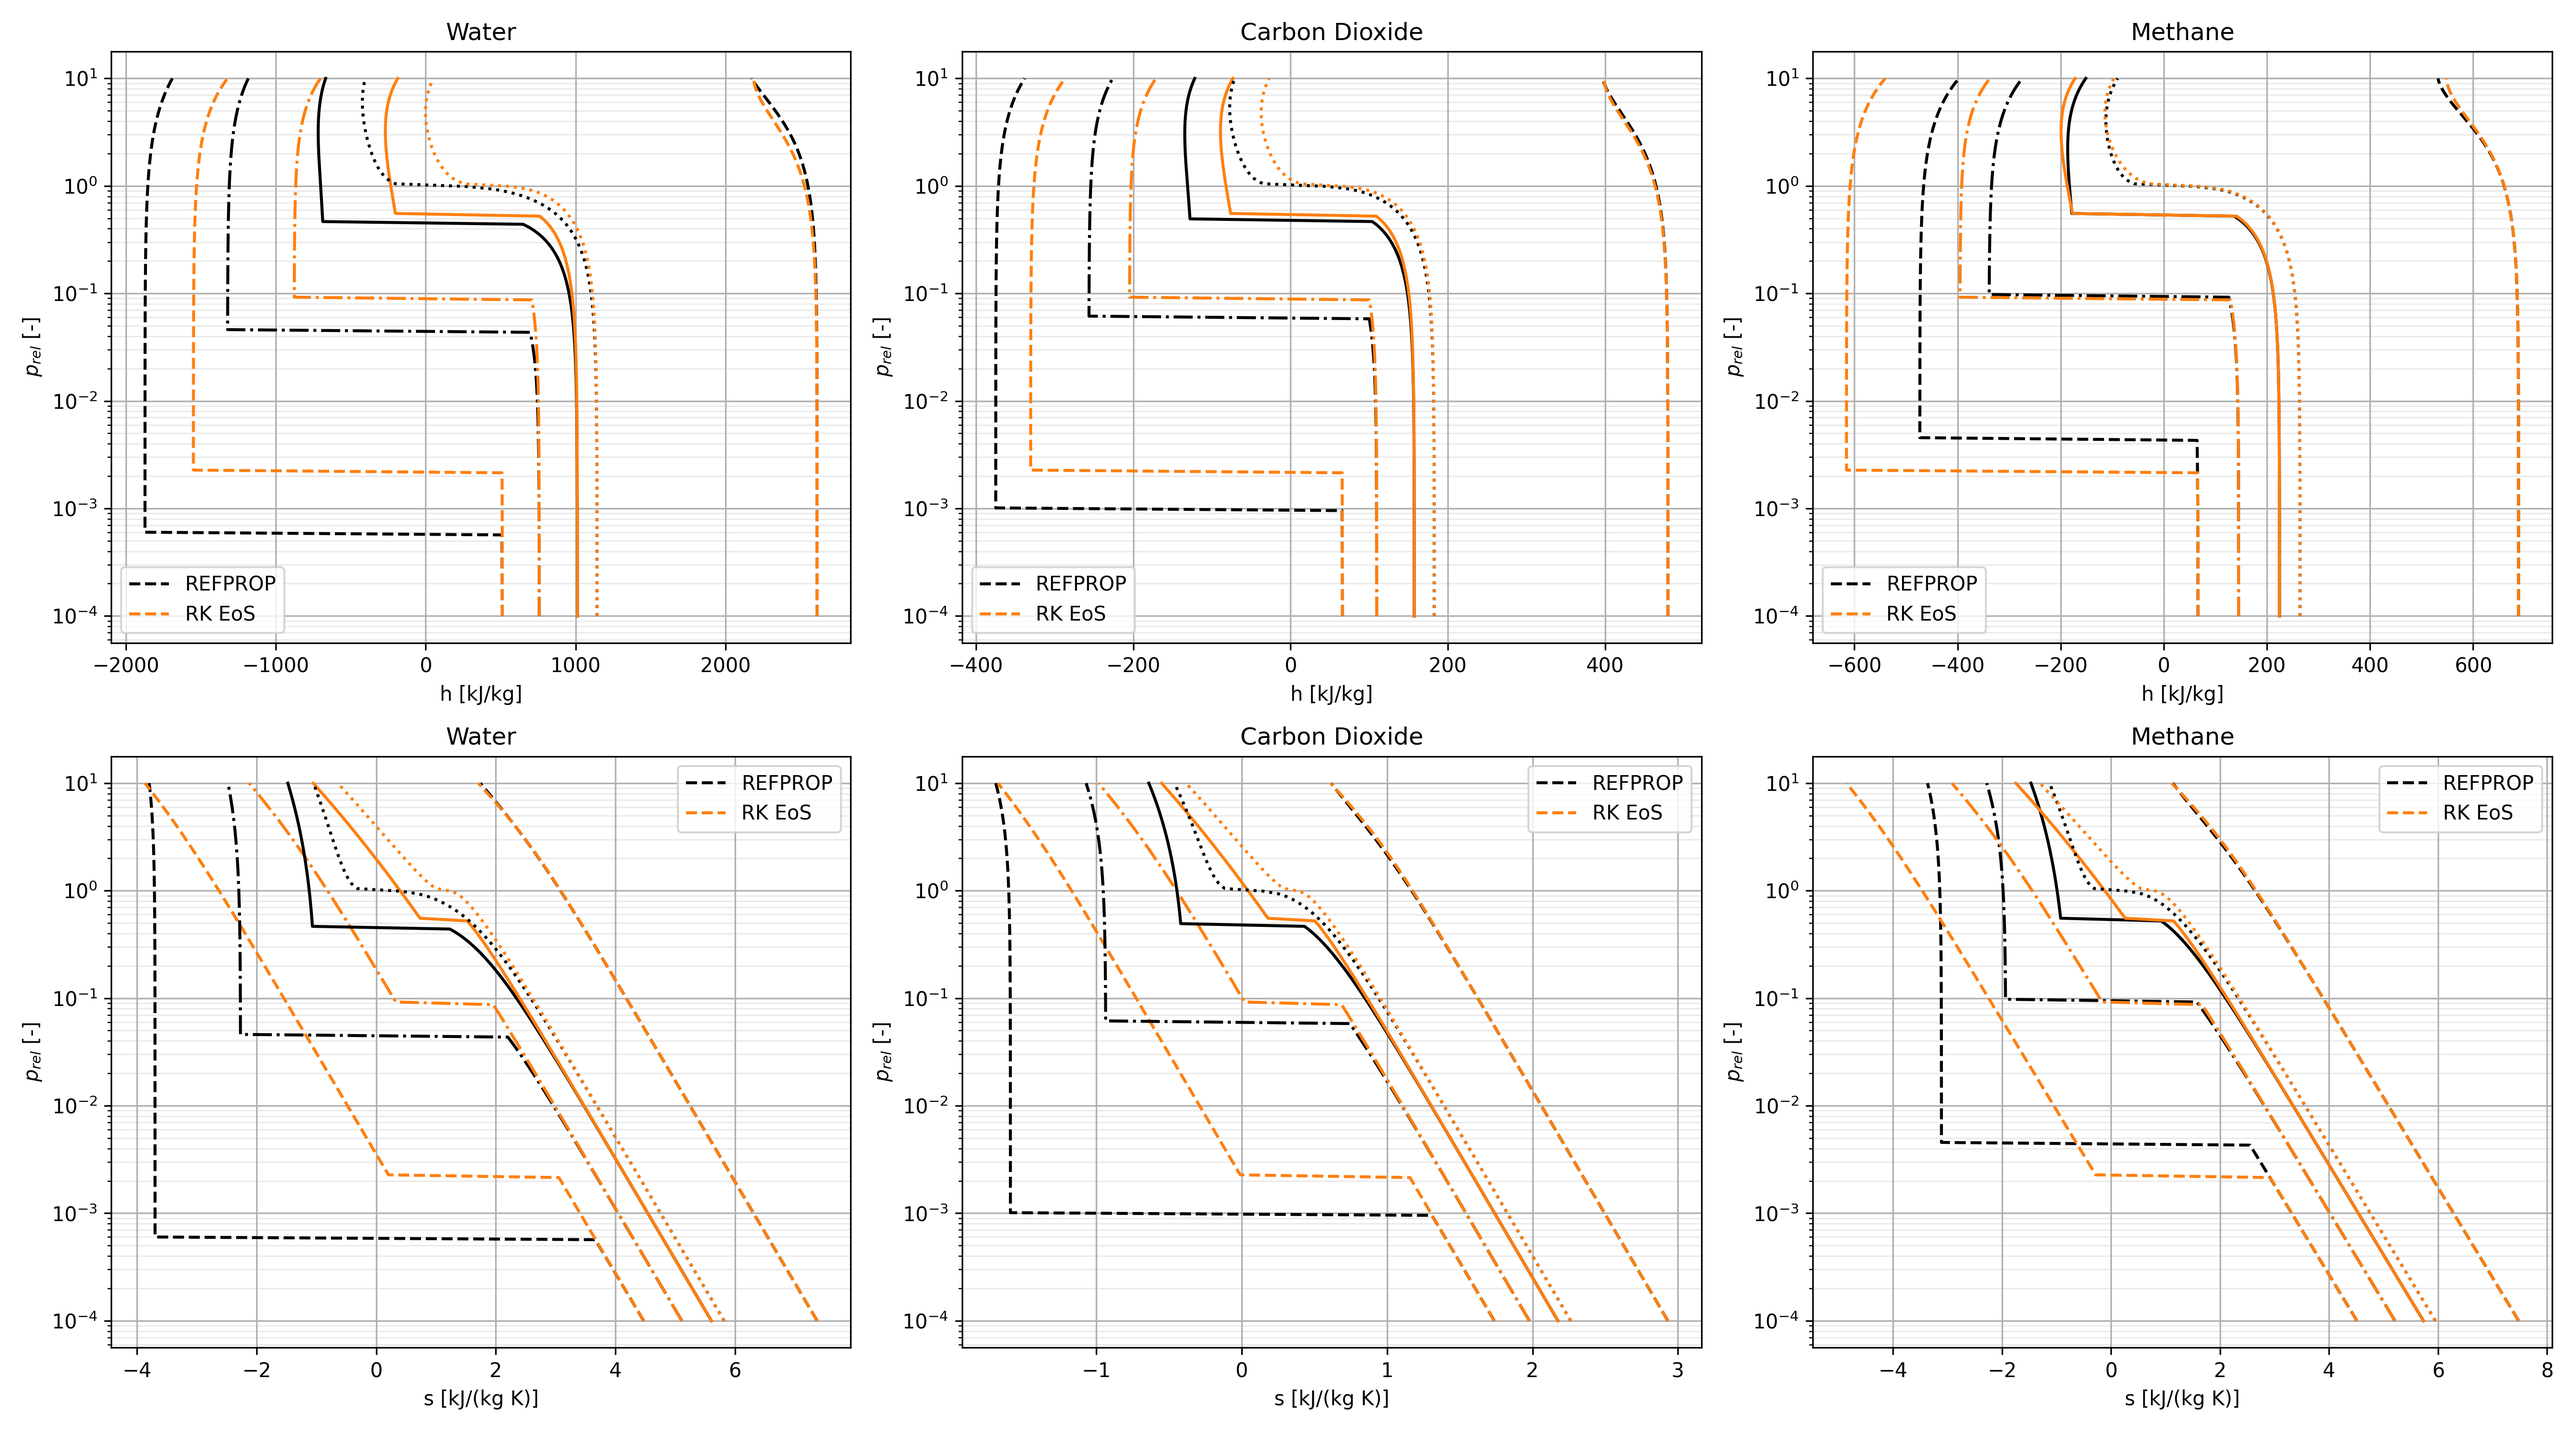
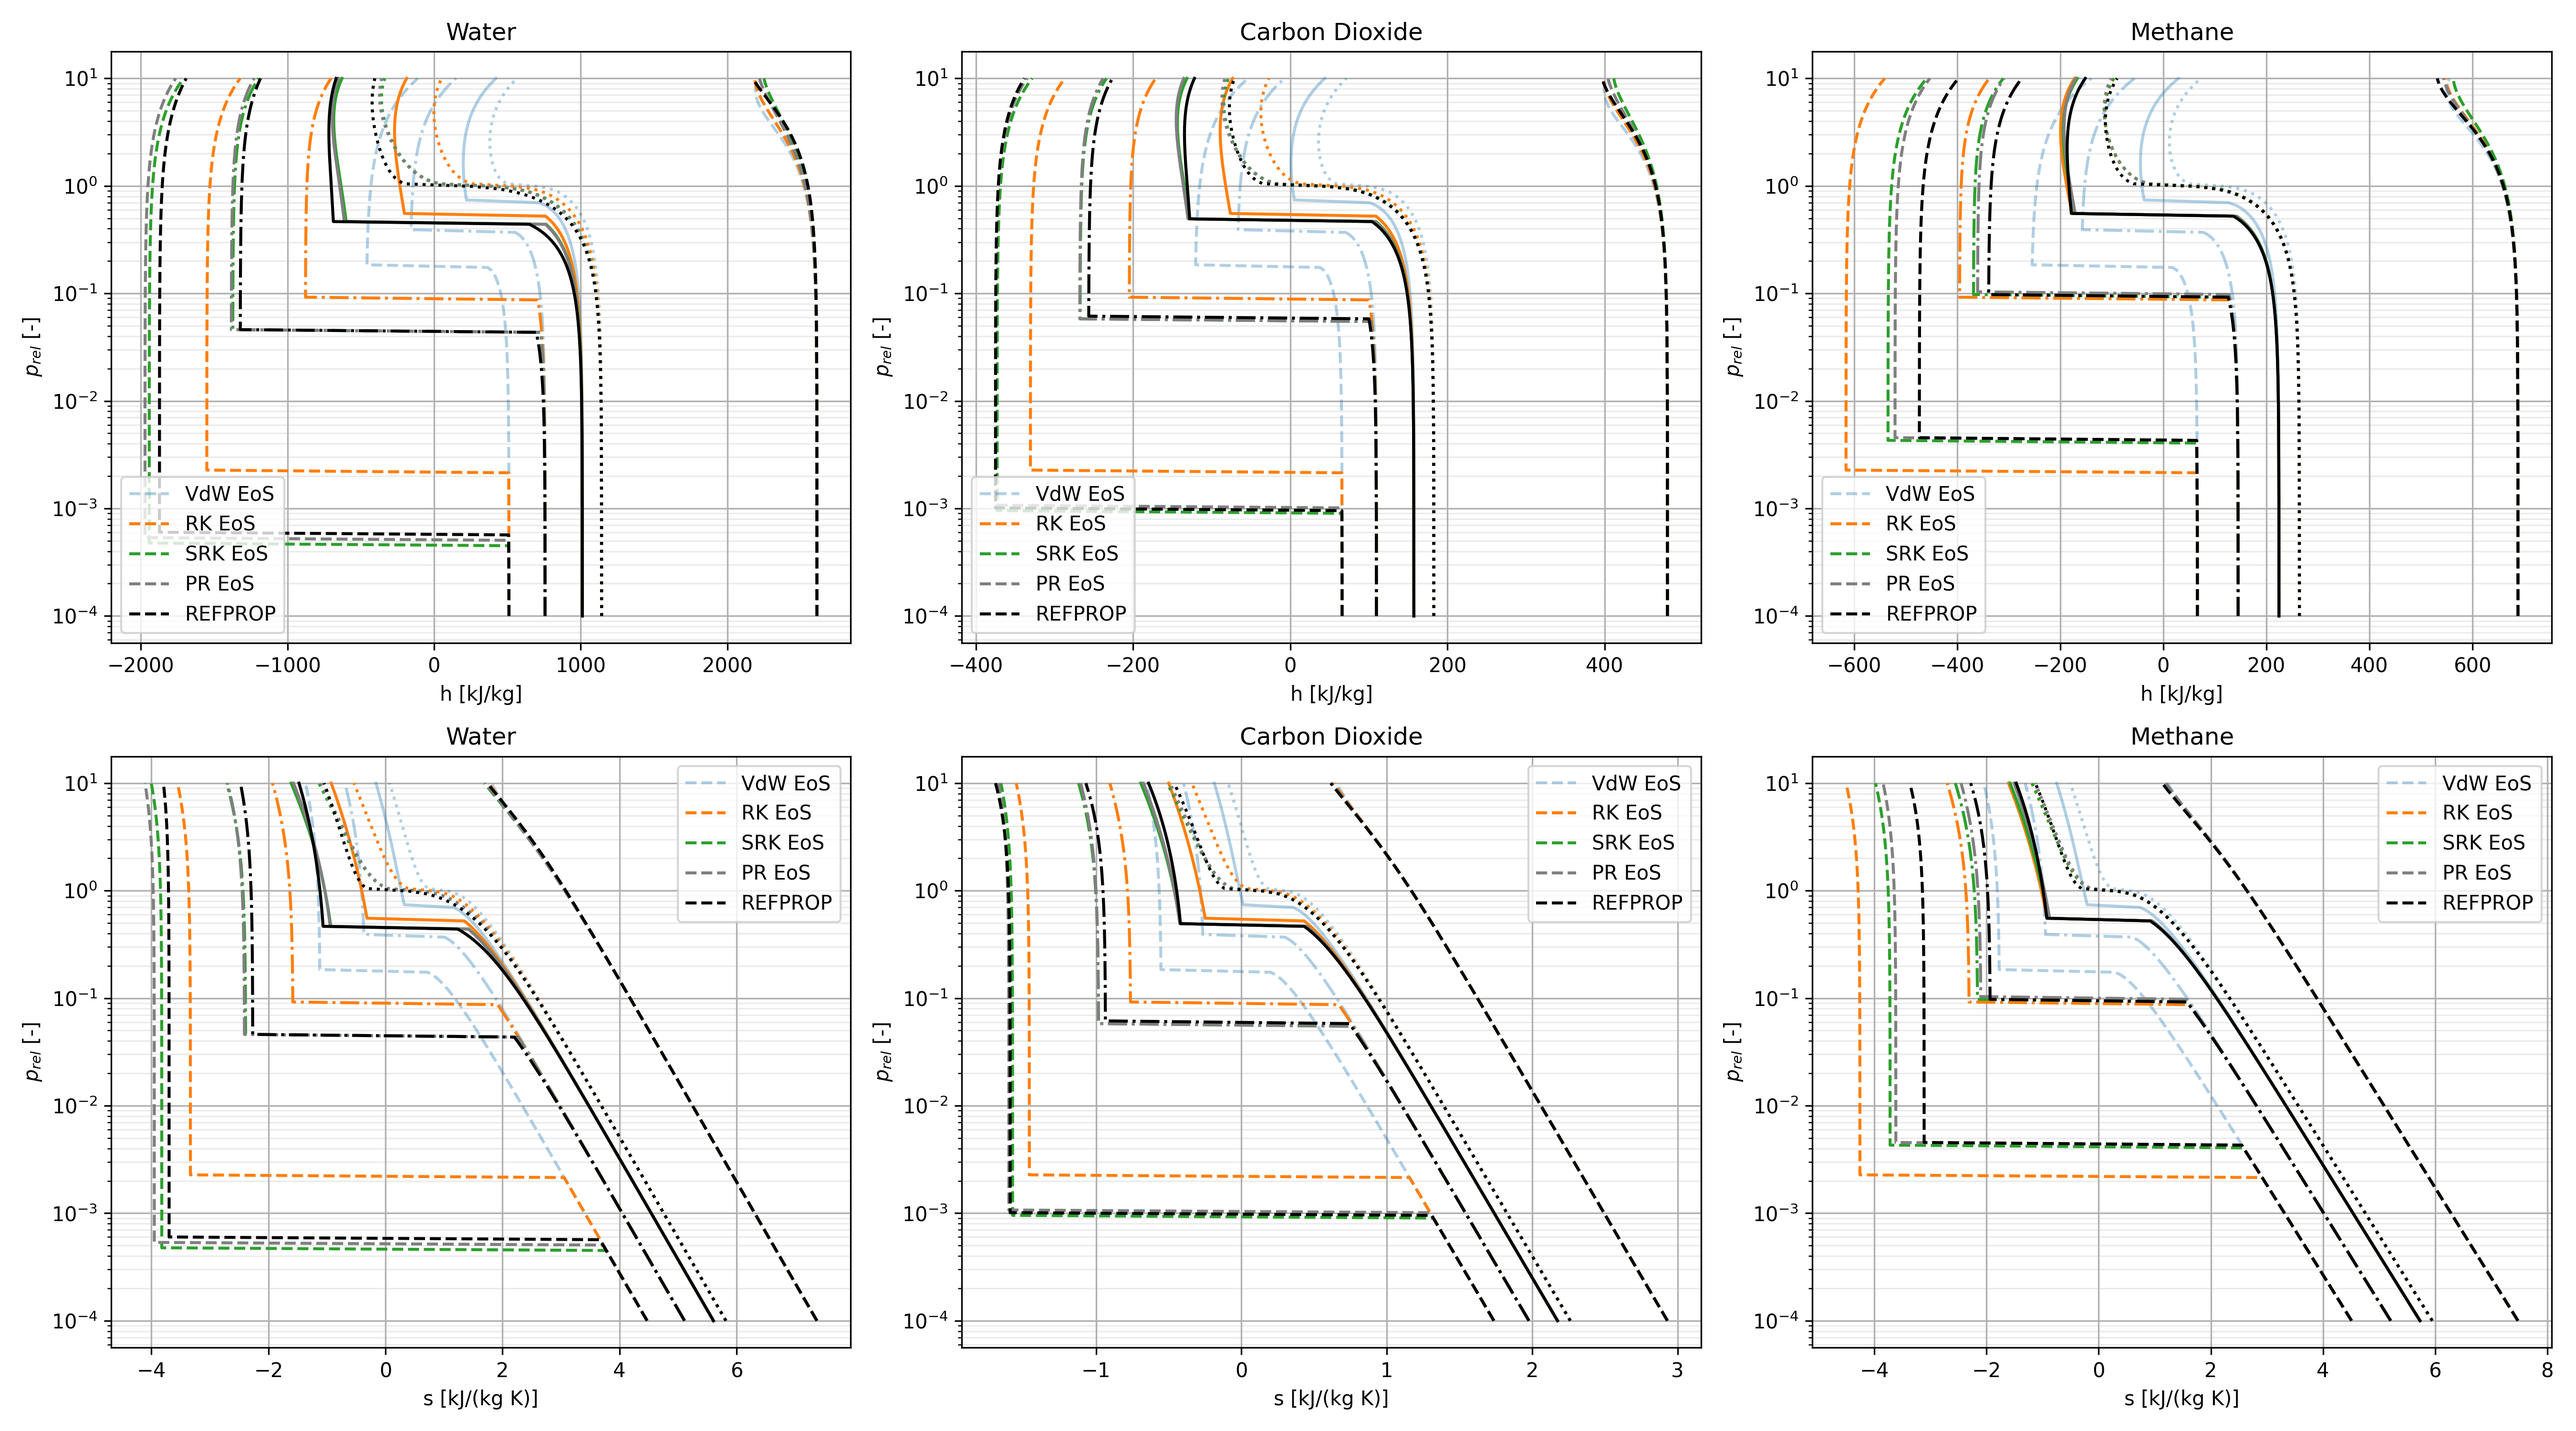
EoS Check Completed

diff --git a/calculation/1 - EOS analysis/8 - EoS Comparison - Enthalpy and Entropy.py b/calculation/1 - EOS analysis/8 - EoS Comparison - Enthalpy and Entropy.py
@@ -18,7 +18,11 @@ fluids = ["Water", "Carbon Dioxide", "Methane"]
 m_mols = [0.01801528, 0.04401, 0.01604]
 acntrs = [0.344, 0.239, 0.011]
 cps = [1864.84159, 845.846, 2230.12]
-eos_class = PREOS
+
+eos_classes = [VdWEOS, RKEOS, SRKEOS, PREOS]
+eos_names = ["VdW EoS", "RK EoS", "SRK EoS", "PR EoS"]
+eos_colors = ["tab:blue", "tab:orange", "tab:green", "tab:gray"]
+alphas = [0.35, 1, 1, 1]
 
 
 # %%-------------------------------------   CALCULATIONS                        -------------------------------------> #
@@ -40,19 +44,25 @@ for fluid in fluids:
     h_crit_rp = tp.get_variable("h")
     s_crit_rp = tp.get_variable("s")
 
-    eos_fluid = eos_class(t_crit=t_crit, p_crit=p_crit, cp_ideal=cps[k], m_molar=m_mols[k], acntr=acntrs[k])
-    crit_state = eos_fluid.get_state(t=t_crit, p=p_crit)
+    fluids = list()
+    crit_states = list()
 
-    for t_mod in [0.5, 0.7, 0.9, 1, 2]:
+    for eos_class in eos_classes:
 
-        h_rels = np.zeros((2, n_points))
-        s_rels = np.zeros((2, n_points))
+        fluid_curr = eos_class(t_crit=t_crit, p_crit=p_crit, cp_ideal=cps[k], m_molar=m_mols[k], acntr=acntrs[k])
+        crit_states.append(fluid_curr.get_state(t=t_crit, p=p_crit))
+        fluids.append(fluid_curr)
 
-        t_curr = eos_fluid.t_crit * t_mod
+    for t_mod in t_mods:
+
+        h_rels = np.zeros((5, n_points))
+        s_rels = np.zeros((5, n_points))
+
+        t_curr = fluids[0].t_crit * t_mod
 
         for i in range(len(p_rels)):
 
-            p_curr = p_rels[i] * eos_fluid.p_crit
+            p_curr = p_rels[i] * fluids[0].p_crit
 
             tp.set_variable("P", p_curr)
             tp.set_variable("T", t_curr)
@@ -68,9 +78,13 @@ for fluid in fluids:
             h_rels[0, i] = h_res - h_crit_rp
             s_rels[0, i] = s_res - s_crit_rp
 
-            curr_state = eos_fluid.get_state(p=p_curr, t=t_curr)
-            h_rels[1, i] = curr_state.h - crit_state.h
-            s_rels[1, i] = curr_state.s - crit_state.s
+            j = 0
+            for curr_fluid in fluids:
+
+                curr_state = curr_fluid.get_state(p=p_curr, t=t_curr)
+                h_rels[j + 1, i] = curr_state.h - crit_states[j].h
+                s_rels[j + 1, i] = curr_state.s - crit_states[j].s
+                j += 1
 
             pbar.update(1)
 
@@ -78,18 +92,32 @@ for fluid in fluids:
 
         h_rels = h_rels / 1e3
         s_rels = s_rels / 1e3
-        dh = h_rels[1,0] - h_rels[0, 0]
-        line_rp = axs[0, k].plot(h_rels[0,:], p_rels, label="REFPROP", linestyle=style, color="black")
-        line_eos = axs[0, k].plot(h_rels[1,:] - dh, p_rels, label="RK EoS", linestyle=style, color="tab:orange")
 
-        ds = s_rels[1, 0] - s_rels[0, 0]
-        axs[1, k].plot(s_rels[0, :], p_rels, label="REFPROP", linestyle=style, color="black")
-        axs[1, k].plot(s_rels[1, :] - ds, p_rels, label="RK EoS", linestyle=style, color="tab:orange")
+        lines = list()
+        for j in range(len(fluids)):
 
-    lines = [line_rp[0], line_eos[0]]
+            dh = h_rels[1 + j, 0] - h_rels[0, 0]
+            ds = s_rels[1 + j, 0] - s_rels[0, 0]
+
+            axs[1, k].plot(s_rels[1 + j, :] - ds, p_rels, linestyle=style, color=eos_colors[j], alpha=alphas[j])
+            line_eos = axs[0, k].plot(
+
+                h_rels[1 + j, :] - dh, p_rels,
+                linestyle=style, color=eos_colors[j],
+                label=eos_names[j], alpha=alphas[j]
+
+            )
+
+            lines.append(line_eos[0])
+
+        line_rp = axs[0, k].plot(h_rels[0, :], p_rels, label="REFPROP", linestyle=style, color="black")
+        axs[1, k].plot(s_rels[0, :], p_rels, linestyle=style, color="black")
+        lines.append(line_rp[0])
+
     labs = [l.get_label() for l in lines]
 
     for j in range(len(x_labels)):
+
         axs[j, k].set_yscale("log")
         axs[j, k].grid(visible=True, which="major")
         axs[j, k].grid(visible=True, which="minor", linewidth=0.75, alpha=0.25)

diff --git a/calculation/1 - EOS analysis/7 - EoS Comparison.py b/calculation/1 - EOS analysis/7 - EoS Comparison.py
@@ -19,9 +19,11 @@ m_mols = [0.01801528, 0.04401, 0.01604]
 acntrs = [0.344, 0.239, 0.011]
 cps = [1864.84159, 845.846, 2230.12]
 
+eos_names = ["VdW EoS", "RK EoS", "SRK EoS", "PR EoS"]
+eos_colors = ["tab:blue", "tab:orange", "tab:green", "tab:gray"]
+alphas = [0.35, 1, 1, 1]
 
 # %%-------------------------------------   CALCULATIONS                        -------------------------------------> #
-
 k = 0
 fig, axs = plt.subplots(1, len(fluids), figsize=(6 * len(fluids), 5), dpi=300)
 pbar = tqdm(desc="Calculating Points", total=n_points * len(t_mods) * len(fluids))
@@ -45,7 +47,7 @@ for fluid in fluids:
     pr_fluid = PREOS(t_crit=t_crit, p_crit=p_crit, cp_ideal=cps[k], m_molar=m_mols[k], acntr=acntrs[k])
     k += 1
 
-    for t_mod in [0.5, 0.7, 0.9, 1, 2]:
+    for t_mod in t_mods:
 
         v_rels = np.zeros((5, n_points))
         t_curr = vdw_fluid.t_crit * t_mod
@@ -71,11 +73,22 @@ for fluid in fluids:
             pbar.update(1)
 
         style = next(styles)
-        line_vdw = ax.plot(v_rels[0,:], p_rels, label="VdW EoS", linestyle=style, color="tab:blue")
-        line_rk = ax.plot(v_rels[1,:], p_rels, label="RK EoS", linestyle=style, color="tab:orange")
-        line_srk = ax.plot(v_rels[2,:], p_rels, label="SRK EoS", linestyle=style, color="tab:green")
-        line_pr = ax.plot(v_rels[3,:], p_rels, label="PR EoS", linestyle=style, color="tab:gray")
-        line_rp = ax.plot(v_rels[4,:], p_rels, label="REFPROP", linestyle=style, color="black")
+        lines = list()
+
+        for j in range(len(eos_names)):
+
+            line_eos = ax.plot(
+
+                v_rels[j, :], p_rels,
+                label=eos_names[j], linestyle=style,
+                color=eos_colors[j], alpha=alphas[j]
+
+            )
+
+            lines.append(line_eos[0])
+
+        line_rp = ax.plot(v_rels[4, :], p_rels, label="REFPROP", linestyle=style, color="black")
+        lines.append(line_rp[0])
 
     ax.set_xscale("log")
     ax.set_yscale("log")
@@ -85,7 +98,6 @@ for fluid in fluids:
     ax.set_ylabel("$p_{rel}$ [-]")
     ax.set_title(fluid)
 
-    lines = [line_vdw[0], line_rk[0], line_srk[0], line_pr[0], line_rp[0]]
     labs = [l.get_label() for l in lines]
     ax.legend(lines, labs)
 
